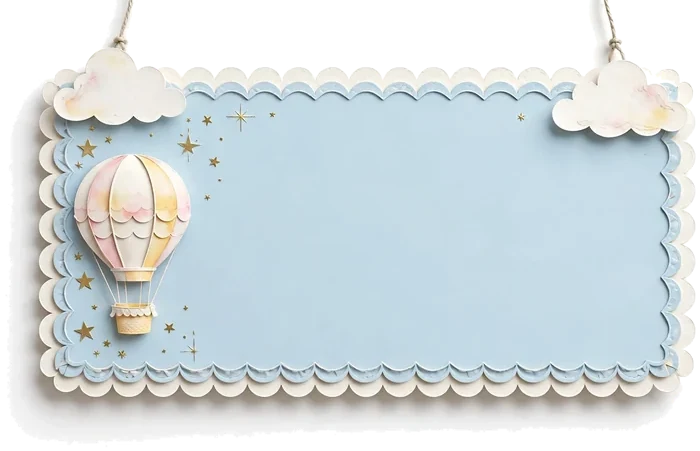
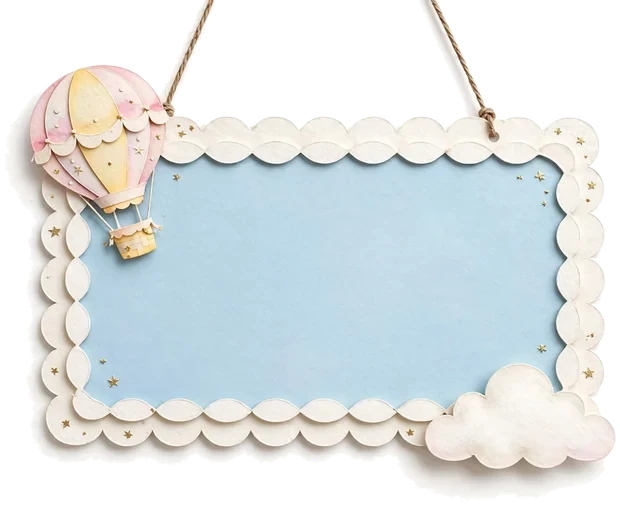
Rodape: placa da cidade com miolo livre e nome em letras de papel centradas

diff --git a/style.css b/style.css
@@ -523,3 +523,10 @@ dialog#sacola .fechar{right:14px;top:16px}
 .rodape-marca .redes{width:100%;max-width:340px;justify-content:center;gap:16px;margin-top:16px}
 .rede{width:46px;height:46px}
 .sobre-loja .cidade span{max-width:130px;padding:14% 0 0;margin:0 auto;font-size:18px}
+
+/* ---- placa da cidade v2: letras de papel recortado centradas no miolo azul (balão e nuvem ficam nos cantos) ---- */
+.sobre-loja .cidade{width:100%;max-width:310px;aspect-ratio:620/505;padding:0;margin:0 auto;display:block;background:url(assets/arte/placa-cidade.webp) center/100% 100% no-repeat}
+.sobre-loja .cidade span{position:absolute;left:52.1%;top:55.8%;transform:translate(-50%,-50%) rotate(-1.5deg);width:70%;max-width:none;margin:0;padding:0;text-align:center;
+  font:700 25px/1.08 var(--display);letter-spacing:.01em;color:#fff;-webkit-text-stroke:8px #F4A9CB;paint-order:stroke fill;
+  text-shadow:0 3px 0 #D9739F,0 8px 10px rgba(51,38,74,.28)}
+@media(max-width:380px){.sobre-loja .cidade span{font-size:22px}}

diff --git a/DESIGN.md b/DESIGN.md
@@ -328,7 +328,7 @@ Papel rosa costurado, alegre e firme.
 Três peças de papel de 46px, centralizadas sob o cartão da frase, sem círculo, com a metáfora e a cor de cada rede (`ic-whatsapp` balão verde com telefone, `ic-instagram` câmera em degradê aquarela, `ic-tiktok` nota musical em papel grafite), sombra suave e subida de 3px com leve giro no hover. Aparecem sob o logo; as mesmas peças voltam em 34px na coluna Fale com a gente. O logo oficial de cada rede não é redesenhado: a arte é uma releitura de papel, não o glifo da marca.
 
 ### Rodapé: marca
-Logo oficial (até 230px) com o enfeite de papel (nuvens, lua, balão) ao lado e levemente acima, sem nuvem por trás, sobre o céu de papel de `rodape.webp`. Abaixo: um cartão de papel (creme a 82%, borda branca, canto 24px, até 340px) com "Moda bebê e infantil" em Fredoka 23px na cor Rosa Carimbo, o resto da frase em Ubuntu 16px Tinta Suave e a cidade numa placa de papel azul pendurada com balão e nuvenzinhas (`placa-cidade.webp`, 260px, texto centralizado por cima em Fredoka 18px, em duas linhas; sem pílula rosa); as redes ficam logo abaixo, fora do cartão. "Como comprar" tem 5 passos (escolha, sacola, envio pelo WhatsApp, confirmação e pagamento, entrega).
+Logo oficial (até 230px) com o enfeite de papel (nuvens, lua, balão) ao lado e levemente acima, sem nuvem por trás, sobre o céu de papel de `rodape.webp`. Abaixo: um cartão de papel (creme a 82%, borda branca, canto 24px, até 340px) com "Moda bebê e infantil" em Fredoka 23px na cor Rosa Carimbo, o resto da frase em Ubuntu 16px Tinta Suave e a cidade numa placa de papel azul pendurada (`placa-cidade.webp`, até 310px) com o balão e a nuvem nos cantos e o miolo livre; o nome vai em duas linhas, em HTML, como letras de papel recortado (Fredoka 700, branco com contorno rosa e sombra) centradas no miolo azul; as redes ficam logo abaixo, fora do cartão. "Como comprar" tem 5 passos (escolha, sacola, envio pelo WhatsApp, confirmação e pagamento, entrega).
 
 ### Faixa de selos (rodapé)
 Quatro painéis em creme a 82% com borda branca de 2px e sombra "Papel assentado" (canto 20px), em grade que se ajusta à largura: **Site seguro** (cadeado), **Sem pagamento no site** (escudo com visto), **Pix ou cartão** (cartãozinho com moeda) e **Atendimento direto** (balão de conversa). Cada um tem a sua peça de papel (`ic-seguro`, `ic-escudo`, `ic-pix-cartao`, `ic-atendimento`, 46px; 42px no celular) com sombra suave, título em Fredoka e frase em Ubuntu. **Só selos verdadeiros**; nunca selos de terceiros (Reclame Aqui, Ebit, Google) sem cadastro real.
